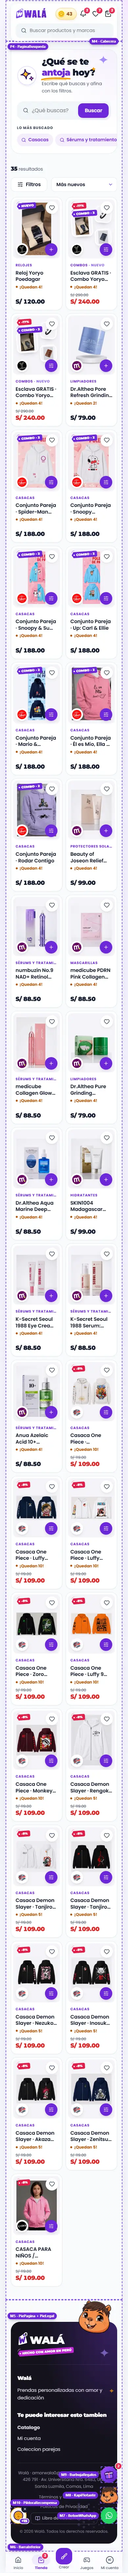
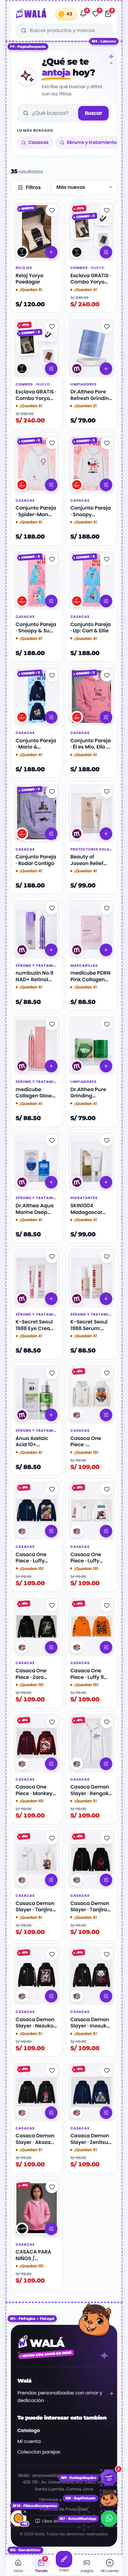
Kit: el subrayado de "antoja" y los destellos ya no chocan con el texto
El aire bajo el título con subrayado a mano era fijo (pensado para el panel):
en la página, con el título grande, el trazo se montaba sobre la línea de
abajo. Ahora va en `em` del propio título (sirve a cualquier tamaño). En el
celular los destellos del mostrador caían sobre "hoy?": van en una franja
propia junto al título (el buscador sigue a todo el ancho). Revisado de 320 a
1366 px, con y sin término.

diff --git a/src/componentes/kit/paginas/Paginas.jsx b/src/componentes/kit/paginas/Paginas.jsx
@@ -363,7 +363,9 @@ export function PaginaBusqueda({
         <div className={s.busquedaCabeza}>
           <Destello className={s.busquedaDestello1} />
           <Destello className={s.busquedaDestello2} />
-          <InvitacionBusqueda grande como="h1" termino={termino} titulo={textos.titulo} texto={t.subtitulo} />
+          <div className={s.busquedaTitulo}>
+            <InvitacionBusqueda grande como="h1" termino={termino} titulo={textos.titulo} texto={t.subtitulo} />
+          </div>
           {marcaFiltro && (
             <Aviso compacto icono={<Store aria-hidden="true" />} accion={marcaFiltro.urlTodo && <Boton to={marcaFiltro.urlTodo} variante="fantasma" tamano="sm">Buscar en todo el catálogo</Boton>}>
               Buscando solo en <strong>{marcaFiltro.nombre}</strong>

diff --git a/src/componentes/kit/paginas/Paginas.module.css b/src/componentes/kit/paginas/Paginas.module.css
@@ -222,8 +222,27 @@
   text-transform: uppercase;
 }
 
-/* Celular: los atajos en una fila deslizable (no ocupan media pantalla). */
+/* Celular: los atajos en una fila deslizable (no ocupan media pantalla) y
+   los destellos en la esquina, donde el título no llega. */
 @container (max-width: 520px) {
+  /* Franja propia para los destellos junto al título: el texto nunca llega
+     ahí (el buscador y los atajos siguen a todo el ancho). */
+  .busquedaTitulo {
+    padding-right: 1.25rem;
+  }
+
+  .busquedaDestello1 {
+    top: 12px;
+    right: 8px;
+    width: 18px;
+  }
+
+  .busquedaDestello2 {
+    top: 36px;
+    right: 12px;
+    width: 10px;
+  }
+
   .busquedaAtajos ul {
     flex-wrap: nowrap;
     margin: 0 calc(-1 * clamp(1.1rem, 3cqi, 1.75rem));

diff --git a/src/componentes/kit/piezas/PanelBusqueda.module.css b/src/componentes/kit/piezas/PanelBusqueda.module.css
@@ -533,7 +533,8 @@
   }
 }
 
-/* El subrayado a mano del título necesita aire antes de la línea de abajo. */
-.invitacionTitulo + .pista {
-  margin-top: 0.3rem;
+/* El subrayado a mano cuelga por debajo del título: el aire va en `em` del
+   propio título, así alcanza tanto en el panel como en la página (grande). */
+.invitacionTitulo:has(.trazo) {
+  padding-bottom: 0.48em;
 }
